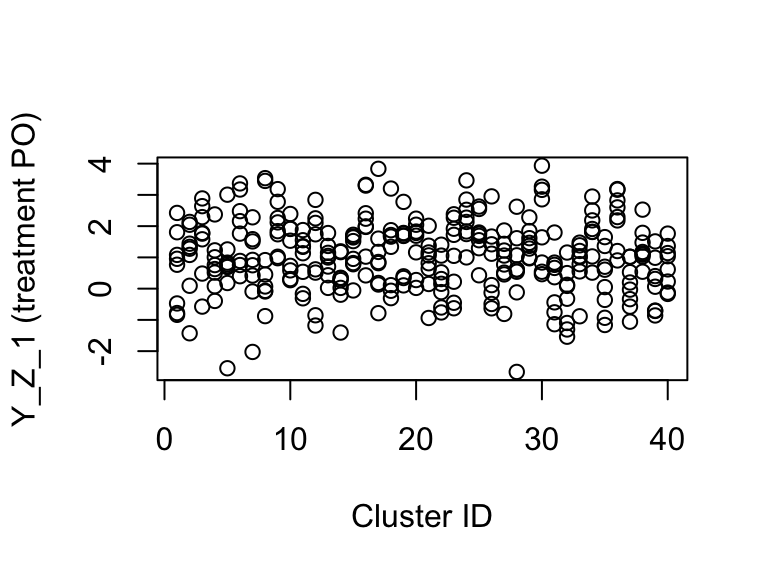
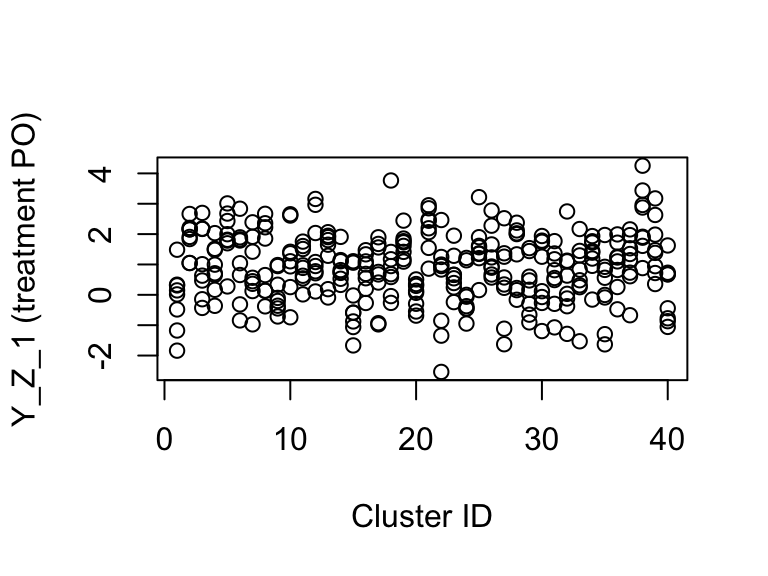
set seed on dim bias rmd so it does not generate new png each time

diff --git a/docs/articles/simulations-debiasing-dim.html b/docs/articles/simulations-debiasing-dim.html
@@ -369,12 +369,12 @@ simp_cl_des &lt;-<span class="st"> </span><span class="kw"><a href="http://www.r
 <span class="kw">table</span>(<span class="dt">Z =</span> dat<span class="op">$</span>Z, <span class="dt">clusters =</span> dat<span class="op">$</span>clusters)</code></pre></div>
 <pre><code>##    clusters
 ## Z   01 02 03 04 05 06 07 08 09 10 11 12 13 14 15 16 17 18 19 20 21 22 23
-##   0  8  0  8  8  0  8  0  0  0  8  0  8  0  0  8  8  8  8  0  8  8  8  8
-##   1  0  8  0  0  8  0  8  8  8  0  8  0  8  8  0  0  0  0  8  0  0  0  0
+##   0  0  0  0  8  0  8  0  0  8  8  8  8  8  8  8  0  8  8  8  8  0  8  0
+##   1  8  8  8  0  8  0  8  8  0  0  0  0  0  0  0  8  0  0  0  0  8  0  8
 ##    clusters
 ## Z   24 25 26 27 28 29 30 31 32 33 34 35 36 37 38 39 40
-##   0  0  0  0  0  8  0  8  8  8  0  0  0  8  0  0  0  8
-##   1  8  8  8  8  0  8  0  0  0  8  8  8  0  8  8  8  0</code></pre>
+##   0  8  0  8  0  0  0  0  0  0  0  0  8  0  8  8  8  0
+##   1  0  8  0  8  8  8  8  8  8  8  8  0  8  0  0  0  8</code></pre>
 <p>Furthermore, treatment potential outcomes are correlated with cluster.</p>
 <div class="sourceCode"><pre class="sourceCode r"><code class="sourceCode r"><span class="kw">plot</span>(dat<span class="op">$</span>clusters, dat<span class="op">$</span>Y_Z_<span class="dv">1</span>,
      <span class="dt">ylab =</span> <span class="st">"Y_Z_1 (treatment PO)"</span>, <span class="dt">xlab =</span> <span class="st">"Cluster ID"</span>)</code></pre></div>
